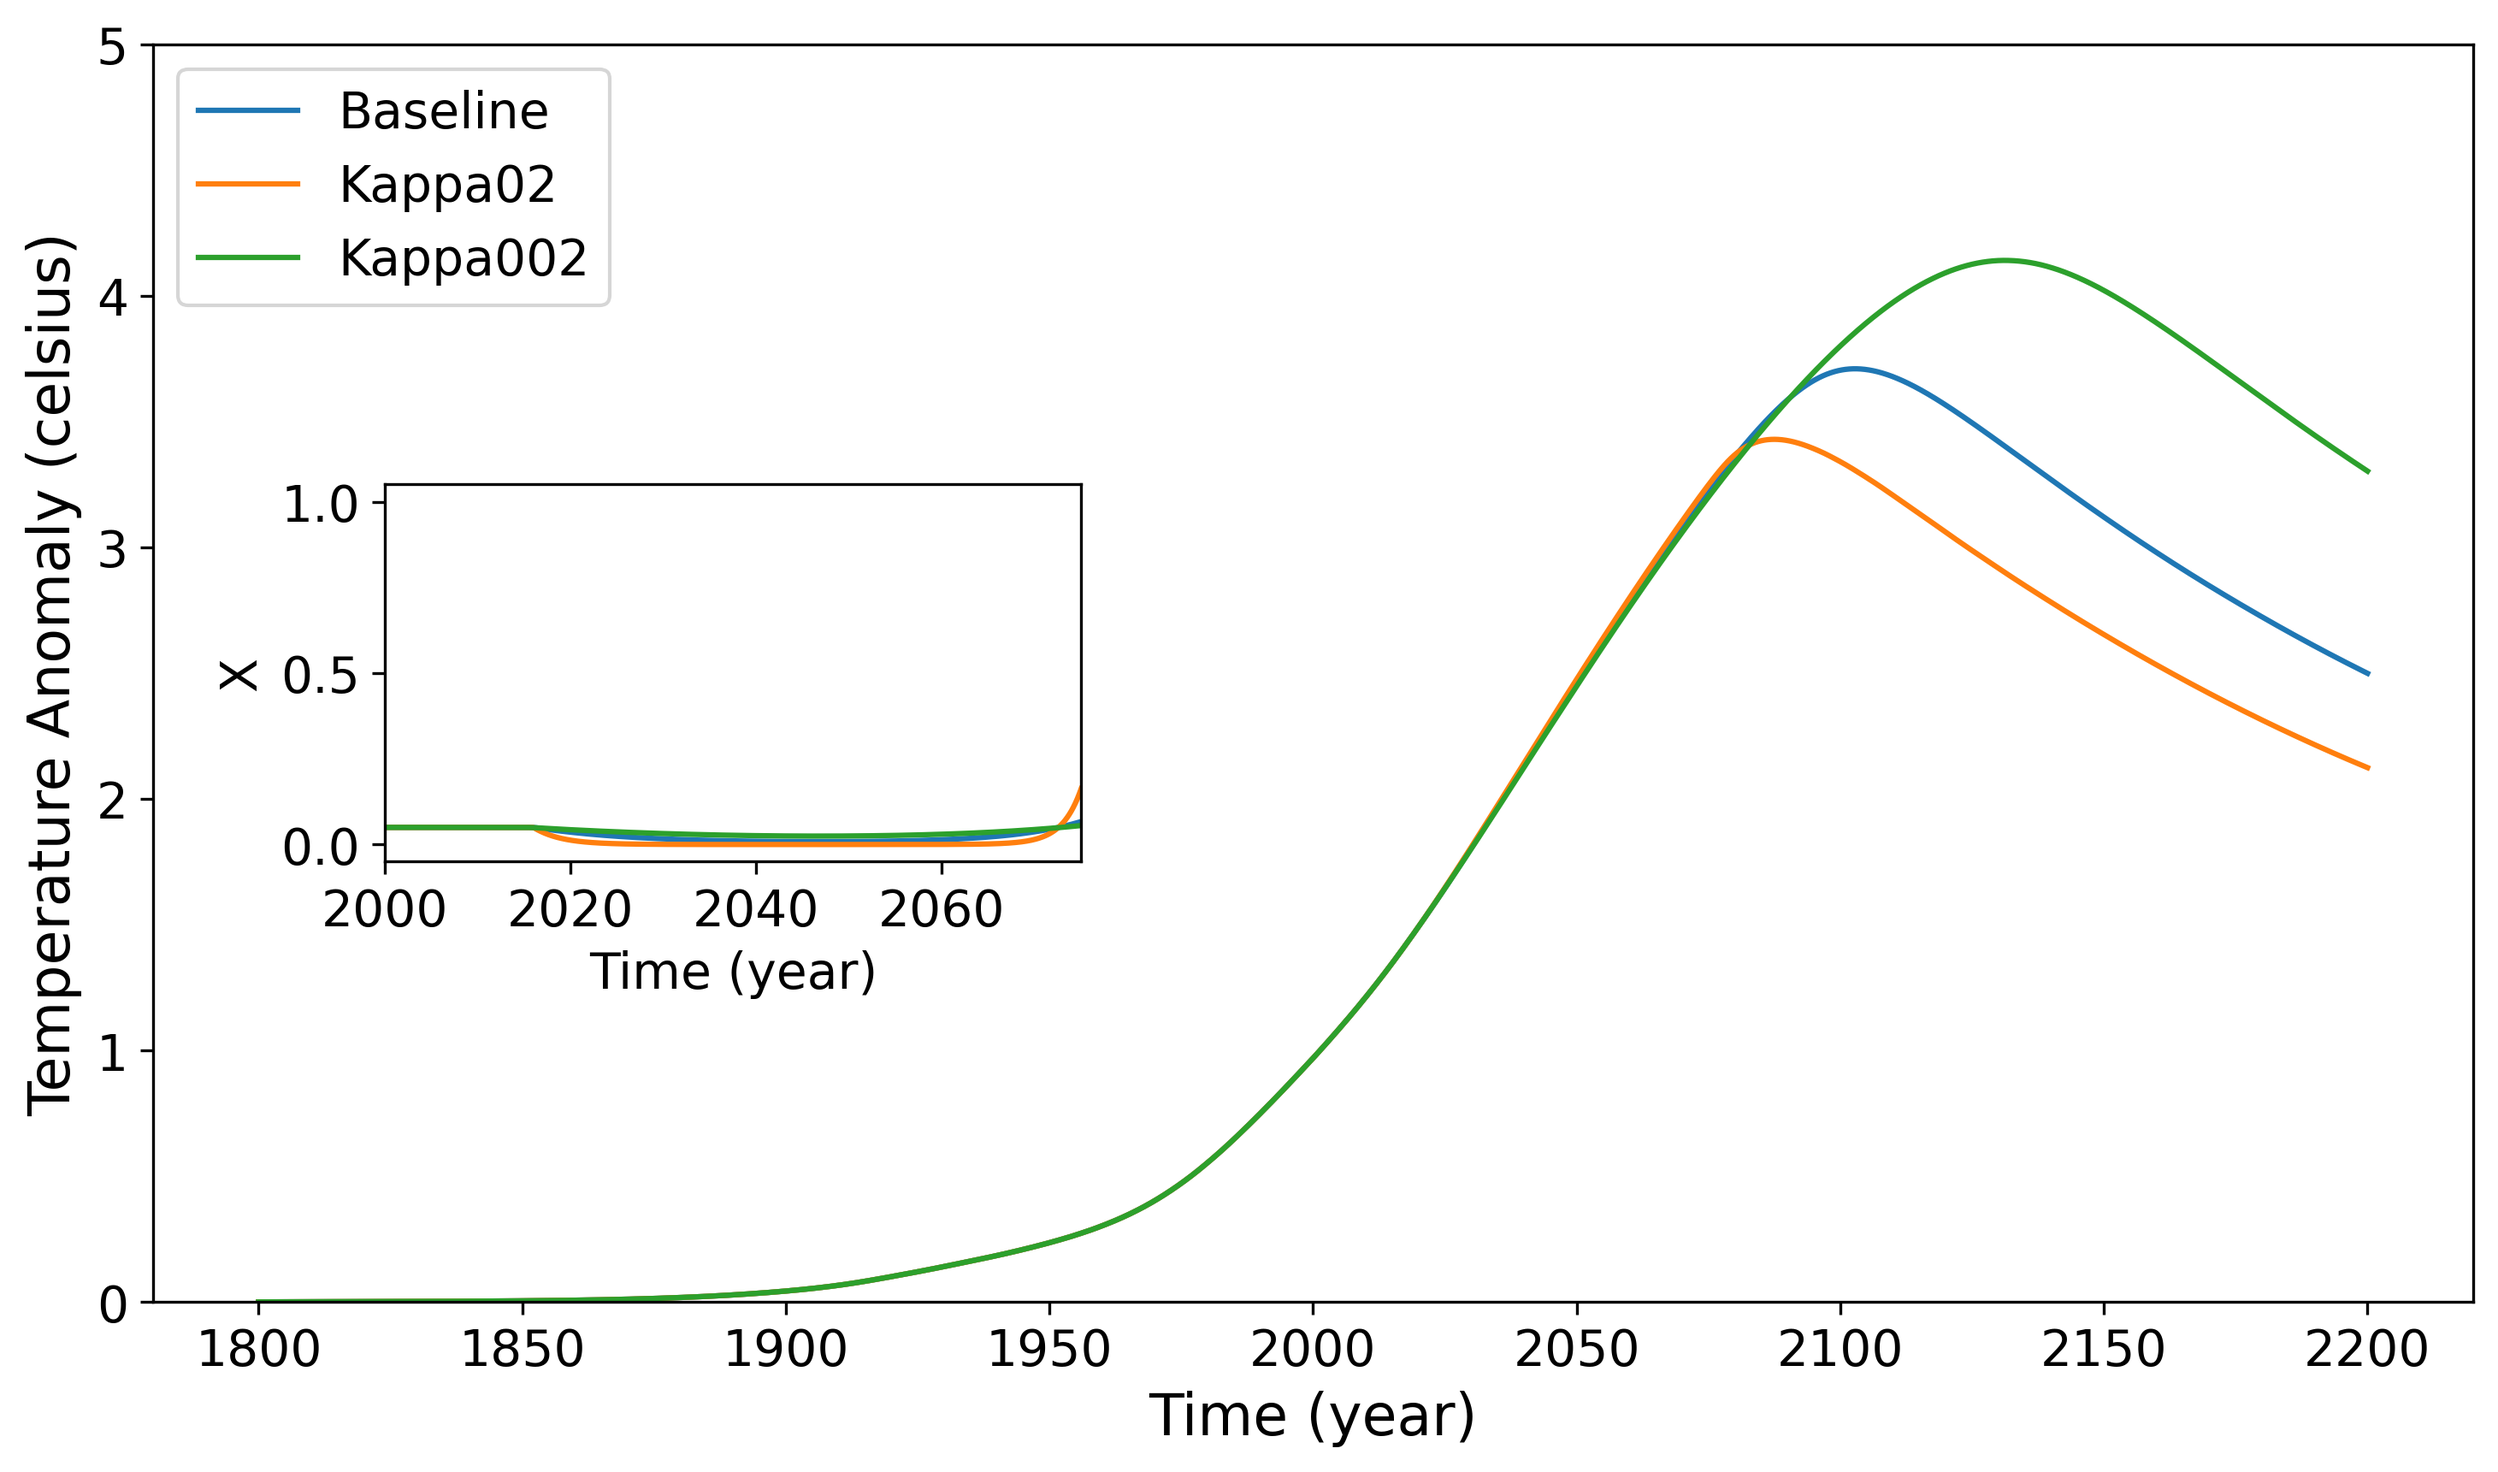
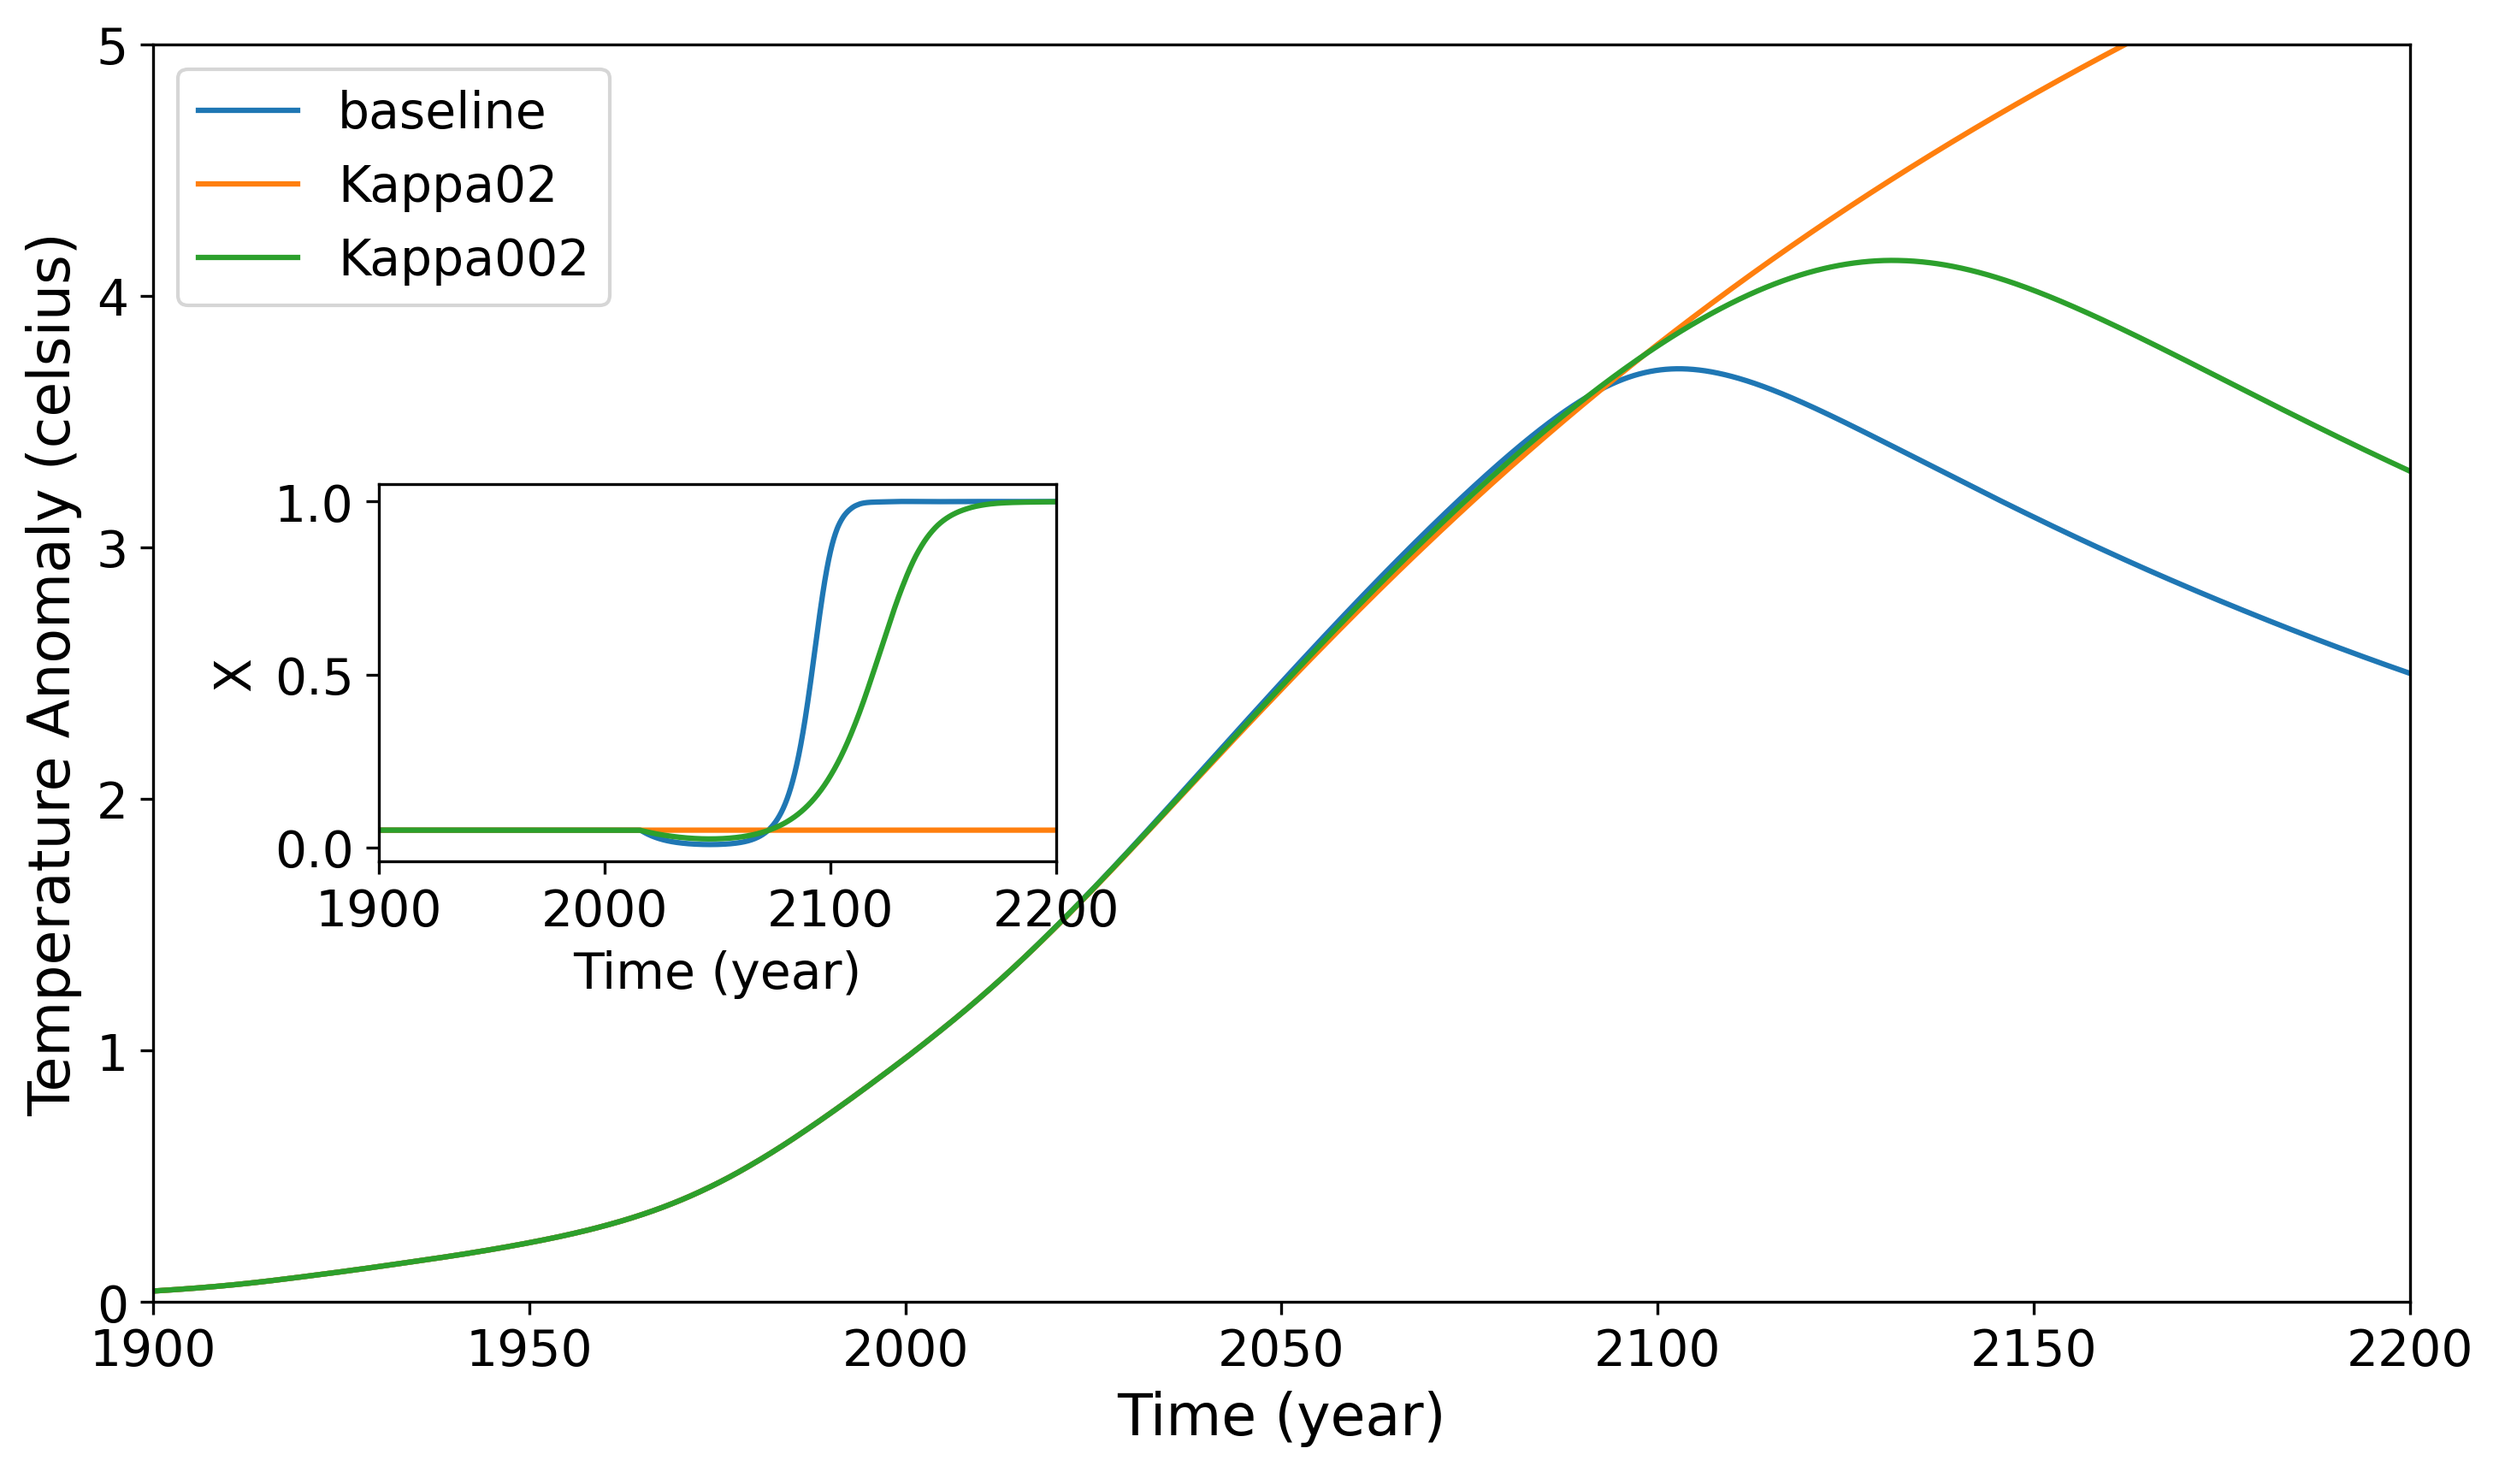
fixed error in parameters and added switch for future different social norms

diff --git a/model_equations.py b/model_equations.py
@@ -19,10 +19,10 @@ def _load_baseline_parameters():
     with scenarios_path.open("r", encoding="utf-8") as file:
         scenarios = json.load(file)
 
-    if "Baseline" not in scenarios:
-        raise KeyError('Missing "Baseline" scenario in scenarios.json')
+    if "baseline" not in scenarios:
+        raise KeyError('Missing "baseline" scenario in scenarios.json')
 
-    return scenarios["Baseline"]
+    return scenarios["baseline"]
 
 
 def load_scenarios():
@@ -34,10 +34,10 @@ def load_scenarios():
 
 def _resolve_extension(extension):
     """Resolve `extension` to a parameter dictionary.
-    Accepts `None`/`"Baseline"`, a scenario name, or a dictionary of
+    Accepts `None`/`"baseline"`, a scenario name, or a dictionary of
     parameter values loaded from JSON.
     """
-    if extension is None or extension == "Baseline":
+    if extension is None or extension == "baseline":
         return _baseline
 
     if isinstance(extension, str):
@@ -58,7 +58,7 @@ def _resolve_extension(extension):
 _baseline = _load_baseline_parameters()
 
 
-def simulate(extension="Baseline"):
+def simulate(extension="baseline"):
     """Run the coupled climate-social model for given parameters and return
     time series for each state variable."""
     p = _resolve_extension(extension)
@@ -149,10 +149,23 @@ def simulate(extension="Baseline"):
         return p["f_max"] / (1 + np.exp(-p["omega"] * (T - p["T_c"])))
 
     def diff_x(t, z):
-        """Time derivative of social state variable x (adoption level)."""
-        if t < 216:
-            return 0
-        return p["kappa"] * z[5] * (1 - z[5]) * (-p["beta"] + f_T(z[4]) + p["delta"] * (2 * z[5] - 1))
+        match p["social_norm"]:
+            case "Observation-based / imitation":
+                if t < 216:
+                    return 0
+                return p["kappa"] * z[5] * (1 - z[5]) * (-p["beta"] + f_T(z[4]) + p["delta"] * (2 * z[5] - 1))
+            case "Obersvation-based / intention motivation":
+                if t < 216:
+                    return 0
+                pass
+            case "Belief-based / intention motivation":
+                pass
+            case "Belief-based / approval":
+                pass
+            case "Obervation based / approval":
+                pass
+            case _:
+                raise ValueError(f"Unknown social norm type: {p['social_norm']}")
 
     def model(t, z):
         """Pack state derivatives into array for ODE solver."""
@@ -186,3 +199,5 @@ def simulate(extension="Baseline"):
         sol.y.T[:, 4],
         sol.y.T[:, 5],
     )
+
+

diff --git a/plotting.py b/plotting.py
@@ -1,3 +1,8 @@
+# Interesting plots for evaluation might be: 
+# Rate of social learning (kappa) against net cost of mitigation (Beta) (from the paper)
+# Mitigators
+
+
 import numpy as np
 import matplotlib.pyplot as plt
 from mpl_toolkits.axes_grid1.inset_locator import inset_axes
@@ -13,11 +18,17 @@ plt.rcParams.update({
 })
 
 
-def plot_all():
+
+def plot_emissions(scenarios=None):
+    pass
+
+
+def plot_temperature(scenarios=None):
     fig, ax = plt.subplots(figsize=(10, 6))
     ax.set_xlabel("Time (year)", fontsize=16)
     ax.set_ylabel("Temperature Anomaly (celsius)", fontsize=16)
     ax.set_ylim(top=5)
+    ax.set_xlim(1900, 2200)
 
     inset_ax = inset_axes(
         ax,
@@ -27,11 +38,14 @@ def plot_all():
         bbox_transform=ax.transAxes,
         loc="center",
     )
-    inset_ax.set_xlim(2000, 2075)
+    # inset_ax.set_xlim(2000, 2075)
+    inset_ax.set_xlim(1900, 2200)
     inset_ax.set_xlabel("Time (year)", fontsize=14)
     inset_ax.set_ylabel("X", fontsize=14)
 
     model_equations = load_scenarios()
+    if scenarios:
+         model_equations = {k: v for k, v in model_equations.items() if k in scenarios}
     for scenario_name, _ in model_equations.items():
         print(f"Simulating scenario: {scenario_name}")
         t, _, _, _, _, T, x = simulate(scenario_name)
